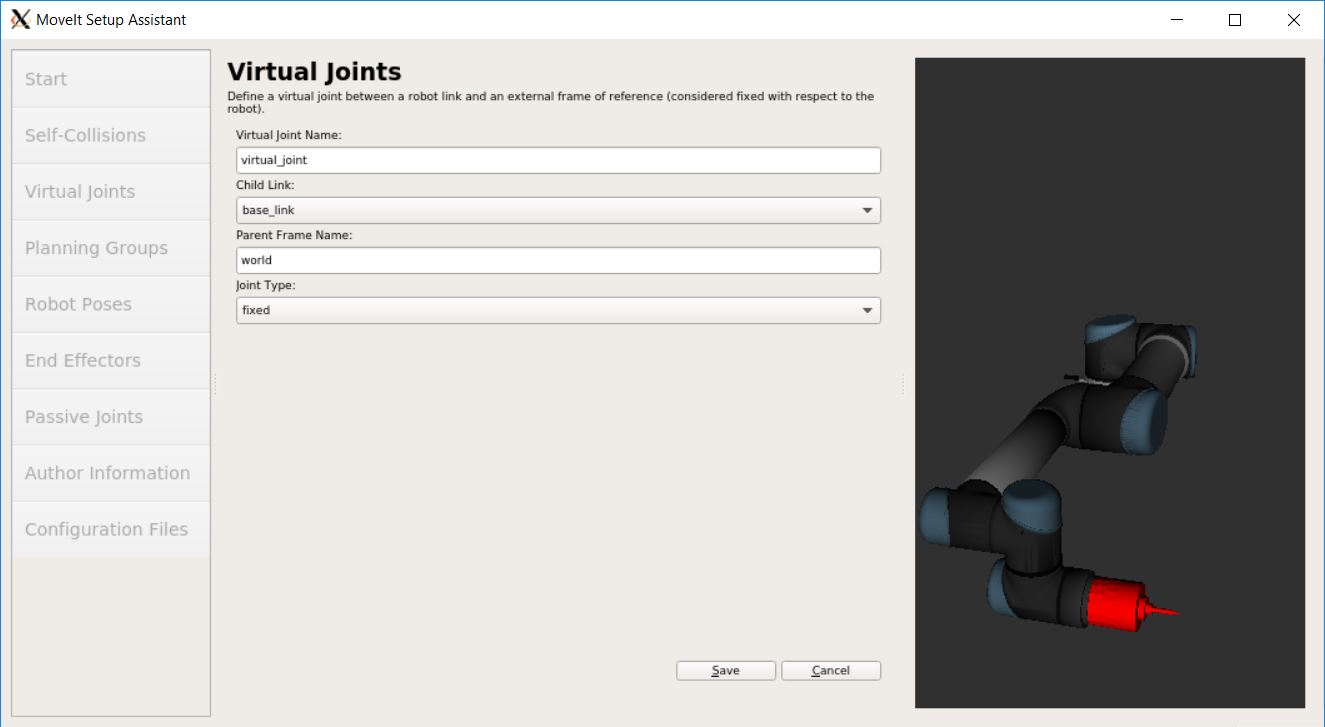
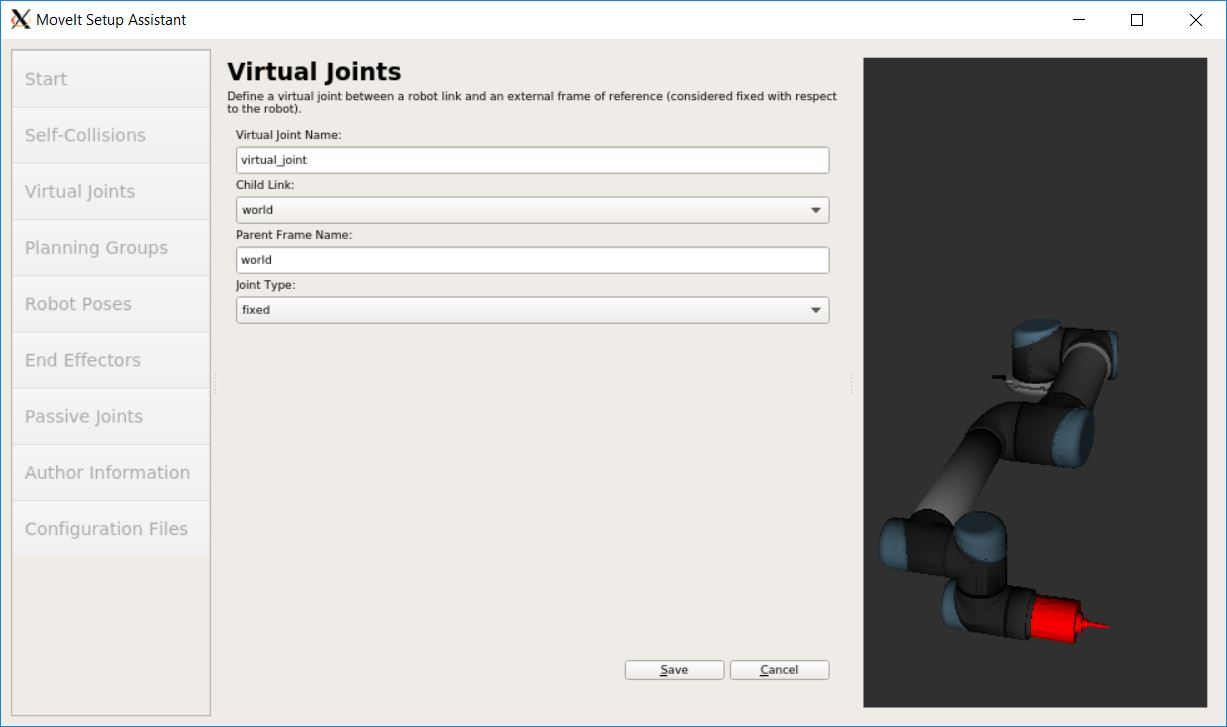
update example

diff --git a/docs/examples/08_ros_create_moveit_package_from_custom_urdf.rst b/docs/examples/08_ros_create_moveit_package_from_custom_urdf.rst
@@ -53,7 +53,7 @@ frame. We will define only one virtual joint, attaching the
 
 * Click on the *Virtual Joints* pane selector. Click on *Add Virtual Joint*
 * Set the joint name as "virtual_joint"
-* Set the child link as "base_link" and the parent frame name as "world".
+* Set the child link as "world" and the parent frame name as "world".
 * Set the Joint Type as "fixed".
 * Click *Save*.
 
@@ -186,6 +186,19 @@ You are almost there. One last step!
 .. figure:: 08_ros_create_moveit_package_09.jpg
     :figclass: figure
     :class: figure-img img-fluid
+
+
+10. Start the newly generated MoveIt! Configuration
+
+    cd ~/robotic_setups
+    catkin_make
+    source devel/setup.bash
+    roslaunch ur5_with_measurement_tool_moveit_config  demo.launch rviz_tutorial:=true
+
+.. figure:: 08_ros_create_moveit_package_10.jpg
+    :figclass: figure
+    :class: figure-img img-fluid
+
 
 Further links
 =============
